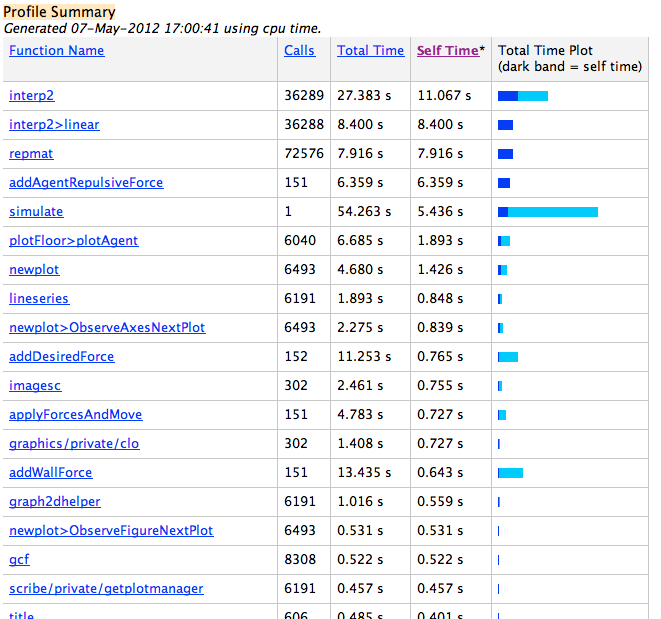
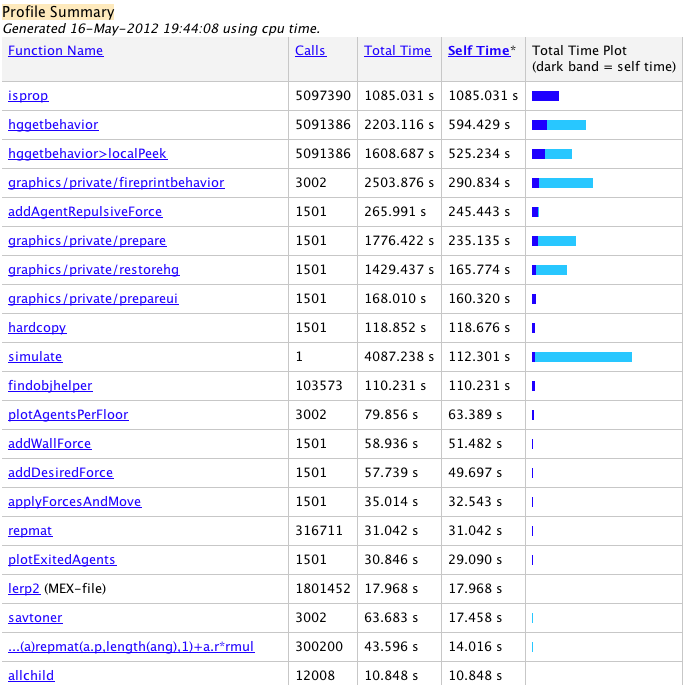
Mora Report... until discussion

Changed region(s): [[0.0, 0.0614, 0.9985, 1.0], [0.0, 0.0, 0.4841, 0.0921]]

diff --git a/doc/report.tex b/doc/report.tex
@@ -137,66 +137,40 @@ Simulating the evacuation scenario of a single-level building is well known but 
 
 \subsection{Motivation}
 
-Intuitive expectations and mathematical model results can stay sometimes in contradiction. As ETH-Students is for us the safety of the people inside the ETH Mainbuilding very important. But on the one hand, we are know sure, if the evacuation potential of the building is enough for the amount of students during a normal week day and on the other hand, we want to help the people around the world, that have a similar question, to find an answer. This two points gave us the ideas and motivation to create a flexible tool that simulates a real-world scenario for any given building or even structures (i.e. planes or boats).
+Intuitive expectations and mathematical model results can stay sometimes in contradiction. As ETH-Students is for us the safety of the people inside the ETH Mainbuilding very important. But on the one hand, we are not sure, if the evacuation potential of the building is enough for the amount of students during a normal week day and on the other hand, we want to help the people around the world, that have a similar question, to find an answer. This two points gave us the ideas and motivation to create a flexible tool that simulates a real-world scenario for any given building or even structures (i.e. planes or boats).
 
 \subsection{Fundamental Questions}
 
-\begin{enumerate}
-\item Which places in a building do contribute the crucial part to panic behaviour?
-\item Do the results correspond to the literature? Why? - Why not?
-\item What are the similarities to single level evacuation bottleneck?
-\item What are the most influential forces, which decide the behavior of scenario?
-
-
-\end{enumerate}
+In the first place, we want to learn about how the humans behave under pressure through already existing papers \cite{AACIBF} \cite{ACPPD}  \cite{SDFEP} \cite{DCD} and find \textit{ what are the most influential forces, which decide this kind of behavior.} Important is also the evaluation of the evacuation potential of the given building and \textit{find places in the building that do contribute on a crucial part to a panic behaviour}.  After the evaluation, we want to \textit{compare our results with the corresponding results in the literature} and find every single coherence and explain all differences. Beside the socio-phychological aspects of this problem, we want also to take a look closer to the technical part and \textit{find the similarities to a single level evacuation bottleneck problem}
 
 
 \section{Description of the Model}
 
-%TODO: finalize (write out every etc.) Hans compare with RESEARCH! -> Froge zerscht (Beim Introduction)und ausschreiben
-% TODO MERGE WITH RESEARCH!!! Andrin Jenal
+For our Model, we will create a relatively general framework for behavioral simulation in evacuation scenarios. As a core investigation we are going to simulate an everyday situation in a crowded (public) environment ending in an evacuation scenario. Whereas at the beginning of each simulation the setting is a general everyday situation and at the end we should be able to make strong statements anwsering our fundamental questions. Relying on a fairly recent paper \cite{SDFEP} we tried to get our simulation as accurate to reality as possible. Since this model is based on the in shortly mentioned forces and interactions we tried to figure out how agents overcome major obstacles like tiny passages and stairs. Here the shape of rooms and building is a key factor contributing to the behaviour of agents. Therefore we defined a special setting concerning agents on stairs, which includes reduces velocity.
 
-To investigate it, we will create a relatively general framework for behavioral simulation in evacuation scenarios. That includes every non-trivial, relevant force affecting every agent i.e. repulsion within the agents (unconscious privacy area conservation), detection of environment (walls, exits, stairs - inclusive direction-, evtl. source of evacuation,etc ) rational thinking to calculate the way to exit (run-time calculation with fast-sweeping algorithm), etc.
+% TODO: ausführlicher, Andrin
 
 
 \subsection{General Model}
 
-We are planning to base our work on the social force model \cite{SFMPD}. The  behaviour of the agents will be mainly influenced by different model parameters like obstacles, stairs and other agents. In addition, psychological pressure in such evacuation scenarios are going to be investigated. The following points are the chosen parameters for the model in this work. For more precisely mathematical explanations, see \cite{SFMPD}
-
-
-
+The behaviour of the agents will be mainly influenced by different model parameters. To the repulsing forces belong \textbf{walls, up-stairs, evacuation sources and other agents} and to the point of attraction belog \textbf{doors, down-stairs and exits} (in that order). In addition, psychological reaction to the approach to a wall or another agent, the feeling of enclosure in a corner of the room and the accelation because of a free path are also properties of our model. The following points are the chosen parameters for the model in this work. For more precisely mathematical explanations, see \cite{SFMPD}.
 
 \subsection*{Agents Repultion Force}
 
-Within a evacuation scenario, the psychological tendency of two pedestrians i and j to stay away from each other, depends on the level of repultion between this two specific agents (margin of unconscious privacy area conservation between them). In addition, we assume two other more physical forces: a `body force' counteracting body compression (important factor in a panic evacuation model) and a `sliding friction force' avoiding the unnatural regulation of the speed when the agent nears another. 
-
-\subsection*{Physical Objects}
-
-Using the nearest point in a wall to an agent, the repulsive forces created by the whole wall is treaten analog as the created Agents-Repultion-Forces. At the same time, the preprocessing of the map, together with the exits and stairs, allows us to create a gradient field all over the map, that shows the agent, the shortest way to exit the floor. 
-
-%%Evtl.  example of field force?? from /images
-
-
-\subsection*{Force of Agents}
+Within a evacuation scenario, the psychological tendency of two pedestrians i and j to stay away from each other, depends on the level of repultion between this two specific agents (margin of unconscious privacy area conservation between them). In addition, we assume two other more physical forces: a `body force' that counteracts the body compression between the agents (important factor in a panic evacuation model) and a `sliding friction force' avoiding the unnatural regulation of the speed when the agent nears another. \cite{SFMPD} 
 
 Quote from 'Helbling, Dirk - Molnar, Peter (1995): Social Force Model for Pedestrians Dynamics' \cite{SFMPD} :
-
+\begin{center}
 \textit{"The desired velocity $v^0_i$ can reach more than $5 \meter\second^{-1}$ (up to $10 \meter\second^{-1}$), but the observed free velocities	for	leaving	a	room	correspond	to	$v^0_i=6 \meter\second^{-1}$ under relaxed, $1\meter\second^{-1}$ under normal, and $1.5\meter\second^{-1}$ under nervous conditions. A reasonable estimate for the acceleration time is $0.5\meter\second^{-1}$."}
-
+\end{center}
 In our model, although the mass is not visible, it is from enorm importance for the calculation of the force of each agent. It's well known that the inertia of each agent is directly dependent from his mass and velocity..
 
 
+\subsection*{Physical Objects}
 
-\subsection{Research}
+Using the nearest point in a wall to an agent, the repulsive forces created by the whole wall is treaten analog as the created Agents-Repultion-Forces (using a fix force for each point in every wall, assuming that a wooden wall creates the same repulsion as a paper wall or concrete wall). In the preprocesing, the walls also represent as points in the graph that cannot be reached, creating a 'natural' gradient field all over the map showing the direction to the nearest exit. If in the current floor there exists no exit, then stairs are interpretend as the local exits, hence the highest local point of attraction. \cite{SFMPD} 
 
-The core investigation is a szenario which describes the panic behaviour of individuals in a crowded building. Whereas at the beginning of each simulation the setting is a general everyday situation and at the end we should be able to make strong statements anwsering our fundamental questions.
-Relying on a fairly recent paper [Halbling2000] we tried to get our simulation as accurate to reality as possible. Since this model is based on above mentioned forces and interactions we tried to figure out how agents overcome major obstacles like tiny passages and stairs. Here the shape of rooms and building is a key factor contributing to the behaviour of agents.
-Therefore we defined a special setting concerning agents on stairs, which includes reduces velocity.
-
-% TODO: ausführlicher
-As a core investigation we are going to simulate an everyday situation in a crowded (public) environment ending in an evacuation scenario.
-
-
+%%Evtl.  example of field force?? from /images Beat? Andrin? Felix?
 
 
 
@@ -227,7 +201,7 @@ area(s).
 
 \begin{figure}[h]
 \centering
-\includegraphics[width=\textwidth]{config_floor_description.png}
+\includegraphics[width=\textwidth]{./images/config_floor_description.png}
 \caption{Left the building floor image and right how it looks when the
 simulation is running} 
 \label{building floor image}
@@ -247,27 +221,28 @@ Mathematically, this can be expressed as an partial differential equation, the 2
 
 The solution $d(\mathbf{x})$ now gives the distance to the nearest exit point, its negative gradient $-\mathbf{\nabla}d(\mathbf{x})$ therefor always points in the direction of the shortest path towards the desired exit. There are mainly two competitive agorithms for solving this equation efficiently. First there is the \textit{Fast Marching} method, a specialized version of Dijkstra's well known algorithm \cite{dijkstra59a}. The alternative is \textit{Fast Sweeping}, which leads to a much simpler implementation, faster calculation and better algorithmic complexity of $O(n)$ instead of $O(n\log n)$ with respect to the discretization size. We therefor implemented an efficient \textit{Fast Sweeping} method, closly following \cite{Zhao04afast} as a basis of our pathfinding and repulsive wall forces. The algorithm uses an upwind finite difference scheme where our mesh is defined by the input images. The implementation was done \textit{C} and not directly in \textit{MATLAB}, using optimized boundary condition handling for our pruposes. Our benchmarks showed a high speed increase compared to other Eikonal solvers, e.g. the "Accurate Fast Marching" implementation as found at \textit{MATLAB CENTRAL} \cite{fastmarching}.
 
-\subsection{Range Tree}
-The most time consuming part in our program is the calculation of the interaction forces between the agents, at least if their count is high enough. To reducue the natural complexity of $O(n^{2})$ of this inter-agent interaction, we can clamp forces with little effect, e.g. in our implementation all forces smaller than $ 10^{4}\newton$. As their exponentially decreasing, the distance in which the forces need to be adressed is only several meters, so a big part of them can just be ignored without introducing a significant error.
-To get all agents influenced by another agent, we need to be able to search neighbours of any agent within a given distance. To efficiently query these agents, we implemented a 2D range tree in \textit{C}, which allows query times of $O(\log n+k)$, where $n$ is the total number of agents and $k$ is the number of queried agents \cite{algdat}. In larger simulations this reduces simulation times by a significant factor.
 
 
-\subsection{Profiling \& optimization}
 
+\subsection{Profiling \& Optimization}
 
 %TODO: 
 % profiler resultat diskutieren
 %  addAgentRepulsiveForce langsam, da N^2
-%  interp2: konstante funk., nicht schneller mit '*nearest', viel langsamer mit (lerp2 schneller...) (Hans)
-%  'linear'  
 
-Using the \textit{Profiler}-function of \textit{MATLAB}, we were able to discuss the efficiency of our implementation. The following image show the time comsumption for the calculation of the evacuation of 200000 floors within 15000000 secounds: %%TODO:Only example und ausführlicher, neu runne
 
-\medskip
+Using the \textit{Profiler}-function of \textit{MATLAB}, we were able to discuss the efficiency of our implementation. The following image show the time comsumption for the calculation of the evacuation of 2 floors (ETH CAB-Building Floors E and F) within x seconds:
+%Running write seconds...
 
-\begin{center}
-	\includegraphics[width=0.9\textwidth]{./images/profiler.png}
-\end{center}
+\begin{figure}[h]
+\centering
+\includegraphics[width=0.8\textwidth]{./images/profiler.png}
+\caption{Profile of the calculation for the CAB-Building with 300 agents over 3 different floors} 
+\label{cab profile}
+\end{figure}
+
+
+\subsubsection{Parallelization}
 
 We tried to optimize the code using the parallel for-loop parfor in \textit{MATLAB}. In
 the function applyForcesAndMove we replaced the for-loop over the agents with
@@ -281,6 +256,25 @@ decreasing performance.
 This is why we decided not to use parfor or any other parallelization in our
 implementation.
 
+\subsubsection{Improving default commands}
+
+Through our first messures, we realised that the function \verb+interp2+ consumed a lot of resources and time. We decided to create our own operator called \verb+lerp2+ that interpolates between data points. It finds values of a two-dimensional function  underlying the data at intermediate points linearly. Here the different given data points are the current values of the frame $i-1$ for the frame $i$. 
+%TODO: More Details lerp2
+
+\begin{figure}[h]
+\centering
+\includegraphics[width=0.5\textwidth]{./images/lerp2.png}
+\caption{Visualisation of lerp2.c} 
+\label{lerp2 image}
+\end{figure}
+
+\subsubsection{Range Tree}
+The most time consuming part in our program is the calculation of the interaction forces between the agents, at least if their count is high enough. To reduce the natural complexity of $O(n^{2})$ of this inter-agent interaction, we can clamp forces with little effect, e.g. in our implementation all forces smaller than $ 10^{4}\newton$. As their exponentially decreasing, the distance in which the forces need to be adressed is only several meters, so a big part of them can just be ignored without introducing a significant error.
+To get all agents influenced by another agent, we need to be able to search neighbours of any agent within a given distance. To efficiently query these agents, we implemented a 2D range tree in \textit{C}, which allows query times of $O(\log n+k)$, where $n$ is the total number of agents and $k$ is the number of queried agents \cite{algdat}. In larger simulations this reduces simulation times by a significant factor.
+
+
+
+
 \section{Simulation Results and Discussion}
 
 \subsection{Expected Results}
@@ -289,6 +283,18 @@ We expect the stairs and the main building exit to be the bottlenecks. The amoun
 
 \subsection{Simulation Results}
 
+As expected the main exit becomes a bottleneck...
+%TODO: Discussion
+
+\begin{figure}[h]
+\centering
+\includegraphics[width=0.5\textwidth]{./images/cab1.png}
+\caption{Visualisation of evacuation in the CAB Building E Floor} 
+\label{cab1}
+\end{figure}
+
+
+
 %TODO: add some plots, ...
 
 \subsection{Discussion}
@@ -296,7 +302,7 @@ We expect the stairs and the main building exit to be the bottlenecks. The amoun
 
 \section{Summary and Outlook}
 
-In this section we would like to thank the MSSSM-Group from the ETH in Zurich, Switzerland directed by Karsten Donnay and Stefano Balietti for their engagement in the lecture "Modeling and Simulating Social Systems with \textit{MATLAB}" during the Spring Semester 2012.
+In this section we would like to thank the MSSSM-Group from the ETH in Zurich, Switzerland directed by Karsten Donnay and Stefano Balietti for their engagement in the lecture "Modeling and Simulating Social Systems with \textit{MATLAB}" during the Spring Semester 2012. This project helped us to understand that the human behavior is a difficult subject to formalize. Non expected reactions (i.e. paranoia, desesperation or creativity) have not been consider by making this model and we are sure that in the reality this factors have also a big importance. This is a point where this work could be improved. Nevertheless, we believe that this project gives a good prespective in matters of evacuation potential and security.
 
 
 %TODO: Rückblick aufs projekt & Danksagung
